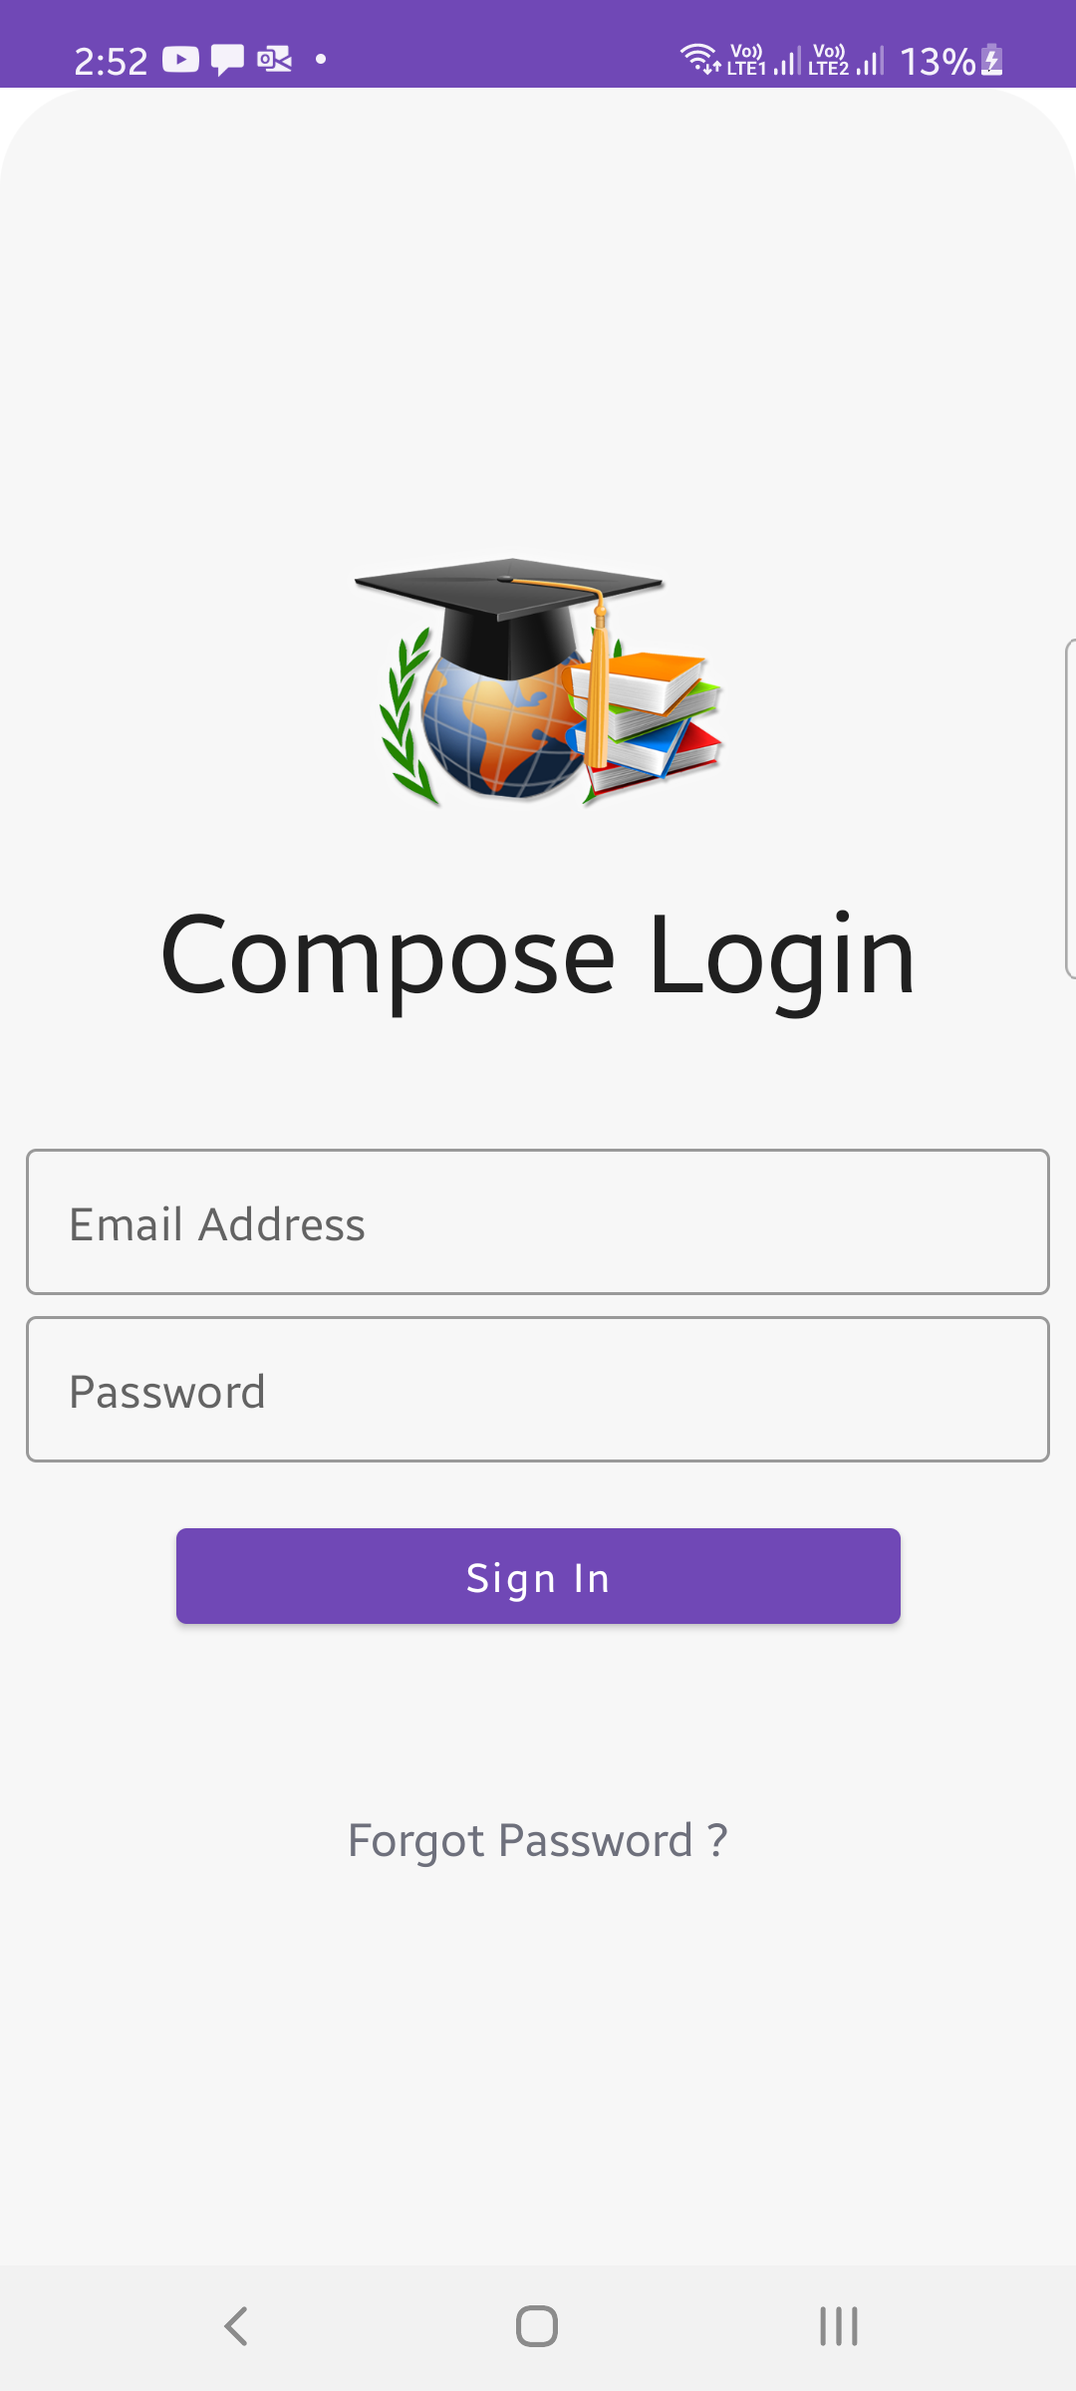
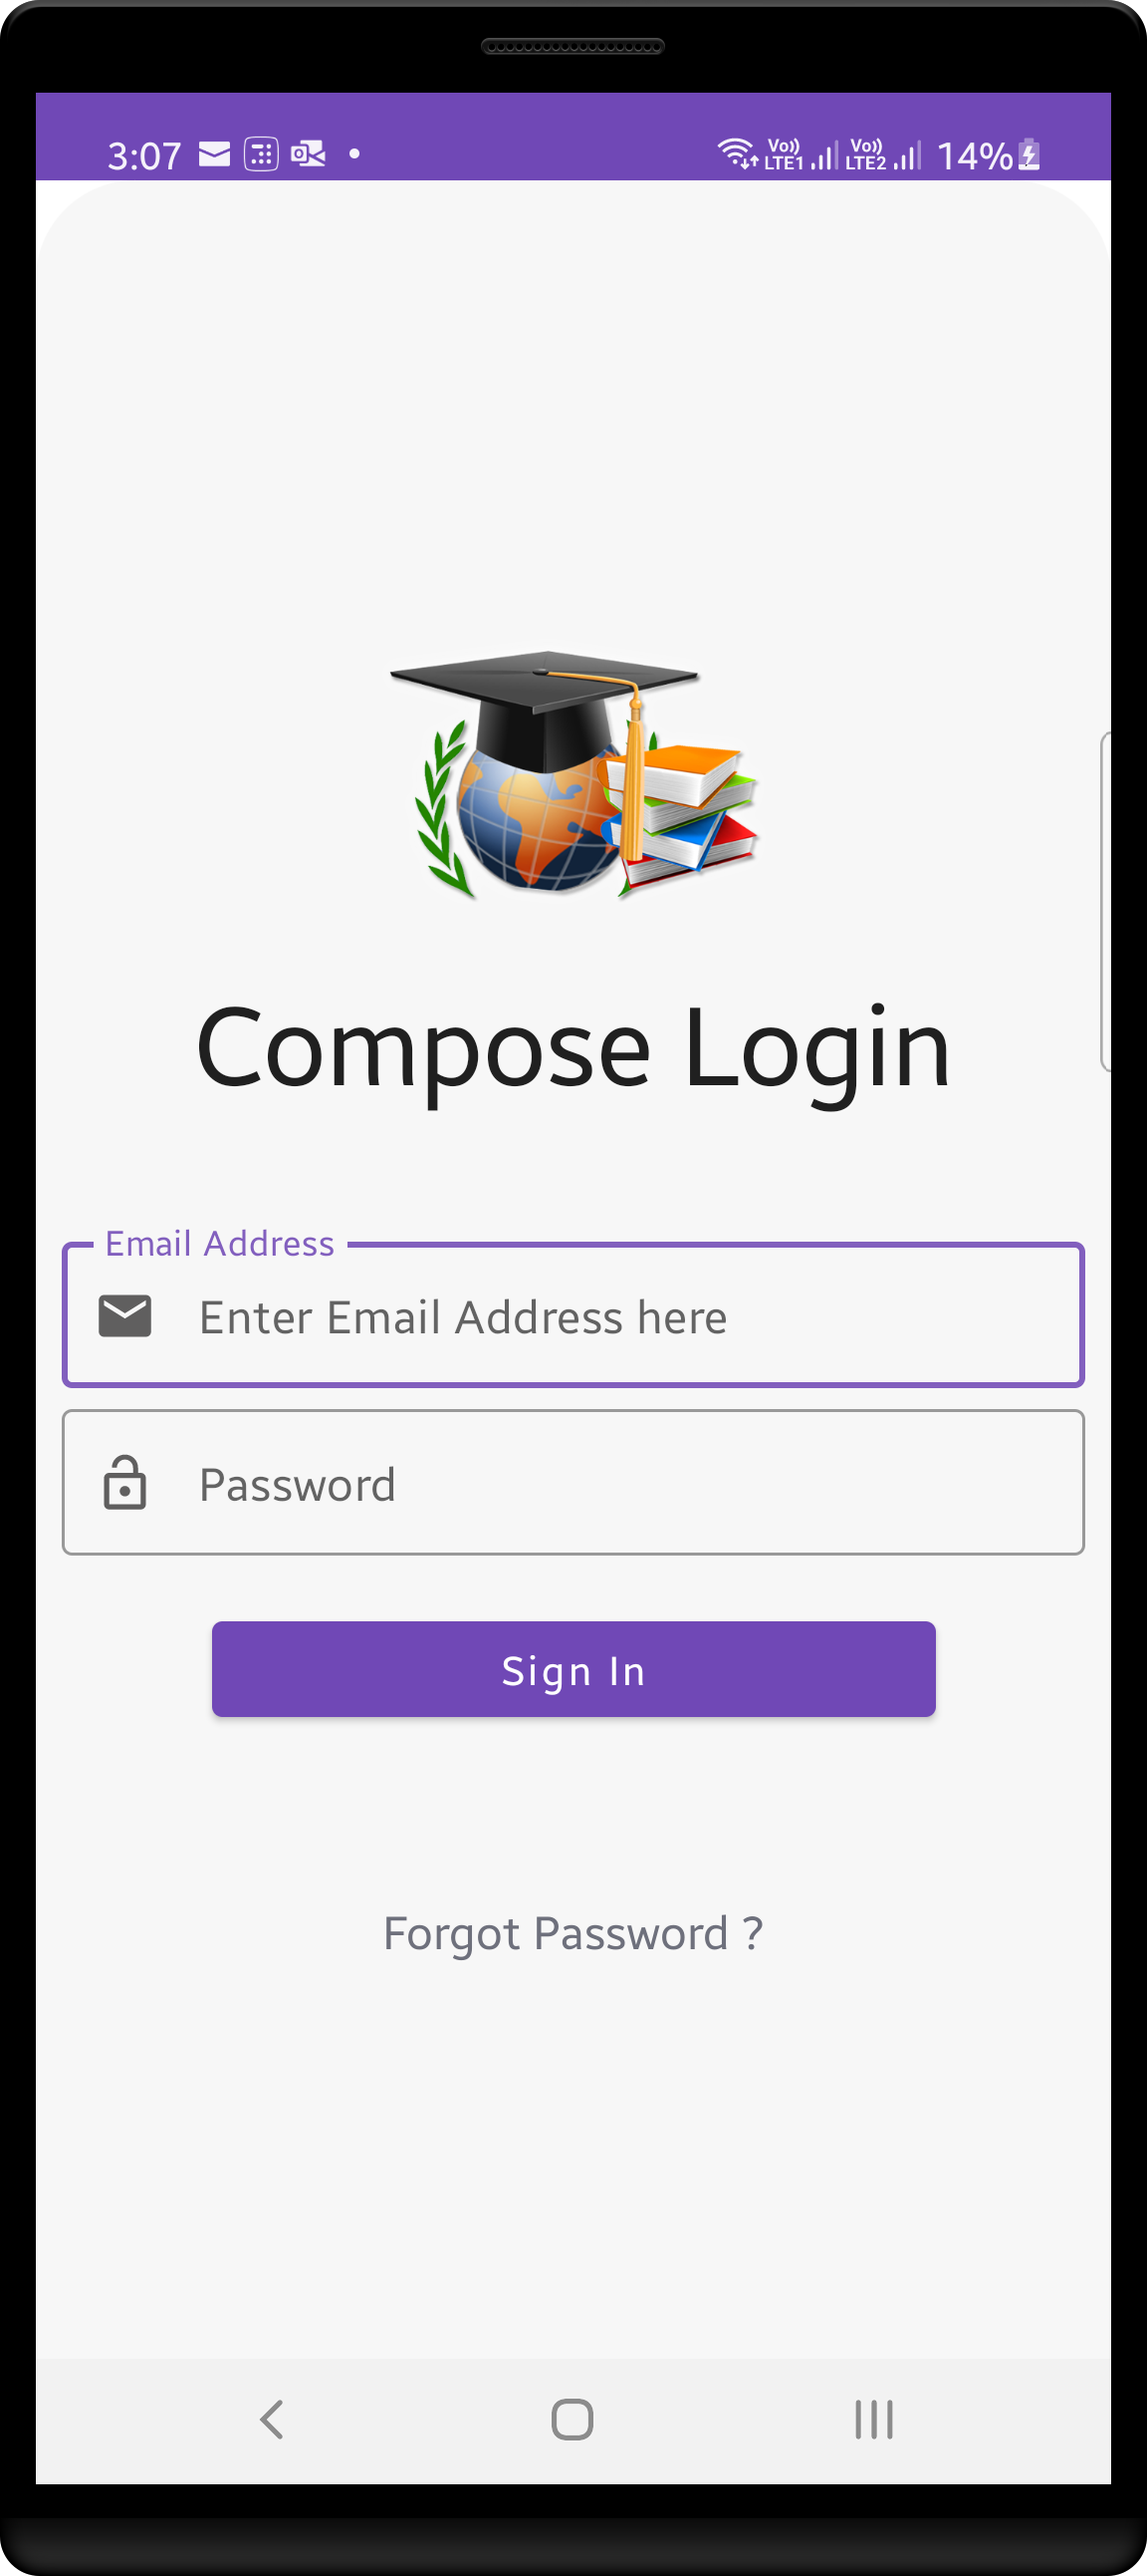
Code Refactoring

diff --git a/app/src/main/java/app/bale/composedemoapplication/presentation/login/LoginScreen.kt b/app/src/main/java/app/bale/composedemoapplication/presentation/login/LoginScreen.kt
@@ -72,13 +72,15 @@ fun LoginPage(loginViewModel: ILoginViewModel) {
             InputField(
                 label = stringResource(R.string.email_address),
                 placeholder = stringResource(R.string.email_placeholder),
-                state = emailValue
+                state = emailValue,
+                image = R.drawable.ic_email
             )
 
             InputField(
                 label = stringResource(R.string.password_label),
                 placeholder = stringResource(R.string.password_placeholder),
                 state = passwordValue,
+                image = R.drawable.ic_lock,
                 visualTransformation = PasswordVisualTransformation()
             )
 
@@ -118,6 +120,7 @@ fun InputField(
     label: String,
     placeholder: String,
     state: MutableState<String>,
+    image: Int,
     visualTransformation: VisualTransformation = VisualTransformation.None
 ) {
 
@@ -128,6 +131,7 @@ fun InputField(
         visualTransformation = visualTransformation,
         placeholder = { Text(text = placeholder) },
         singleLine = true,
+        leadingIcon = {Image(painter = painterResource(id = image), contentDescription = "")},
         modifier = Modifier.fillMaxWidth(8.8f)
     )
 }
